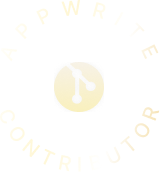
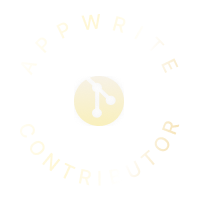
Add cache, fix miss-align

diff --git a/app/controllers/api/avatars.php b/app/controllers/api/avatars.php
@@ -474,8 +474,9 @@ App::get('/v1/avatars/initials')
     ->desc('Get Front Of Cloud Card')
     ->groups(['api', 'avatars'])
     ->label('scope', 'avatars.read')
-    // ->label('cache', true)
-    // ->label('cache.resource', 'cards/cloud')
+    ->label('cache', true)
+    ->label('cache.resourceType', 'cards/cloud')
+    ->label('cache.resource', 'card/{request.userId}')
     ->label('docs', false)
     ->label('origin', '*')
     ->param('userId', '', new UID(), 'User ID.', true)
@@ -491,12 +492,10 @@ App::get('/v1/avatars/initials')
     ->inject('contributors')
     ->inject('employees')
     ->action(function (string $userId, string $mock, int $width, int $height, Document $user, Document $project, Database $dbForProject, Database $dbForConsole, Response $response, array $heroes, array $contributors, array $employees) use ($getUserGitHub) {
-        if (!empty($userId)) {
-            $user = Authorization::skip(fn () => $dbForConsole->getDocument('users', $userId));
-        }
+        $user = Authorization::skip(fn () => $dbForConsole->getDocument('users', $userId));
 
         if ($user->isEmpty() && empty($mock)) {
-            throw new Exception(Exception::GENERAL_ACCESS_FORBIDDEN);
+            throw new Exception(Exception::USER_NOT_FOUND);
         }
 
         if(!$mock) {
@@ -542,7 +541,7 @@ App::get('/v1/avatars/initials')
         if($isEmployee) {
             $image = new Imagick('public/images/cards/cloud/employee.png');
             $image->setGravity(Imagick::GRAVITY_CENTER);
-            $baseImage->compositeImage($image, Imagick::COMPOSITE_OVER, 820, 50);
+            $baseImage->compositeImage($image, Imagick::COMPOSITE_OVER, 795, 35);
 
             $text = new \ImagickDraw();
             $text->setTextAlignment(Imagick::ALIGN_CENTER);
@@ -579,13 +578,13 @@ App::get('/v1/avatars/initials')
         if($isContributor) {
             $image = new Imagick('public/images/cards/cloud/contributor.png');
             $image->setGravity(Imagick::GRAVITY_CENTER);
-            $baseImage->compositeImage($image, Imagick::COMPOSITE_OVER, 820, 50);
+            $baseImage->compositeImage($image, Imagick::COMPOSITE_OVER, 795, 35);
         }
 
         if($isHero) {
             $image = new Imagick('public/images/cards/cloud/hero.png');
             $image->setGravity(Imagick::GRAVITY_CENTER);
-            $baseImage->compositeImage($image, Imagick::COMPOSITE_OVER, 820, 50);
+            $baseImage->compositeImage($image, Imagick::COMPOSITE_OVER, 795, 35);
         }
 
         setlocale(LC_ALL, "en_US.utf8");
@@ -650,8 +649,9 @@ App::get('/v1/avatars/initials')
     ->desc('Get Back Of Cloud Card')
     ->groups(['api', 'avatars'])
     ->label('scope', 'avatars.read')
-    // ->label('cache', true)
-    // ->label('cache.resource', 'cards/cloud')
+    ->label('cache', true)
+    ->label('cache.resourceType', 'cards/cloud-back')
+    ->label('cache.resource', 'card/{request.userId}')
     ->label('docs', false)
     ->label('origin', '*')
     ->param('userId', '', new UID(), 'User ID.', true)
@@ -667,12 +667,10 @@ App::get('/v1/avatars/initials')
     ->inject('contributors')
     ->inject('employees')
     ->action(function (string $userId, string $mock, int $width, int $height, Document $user, Document $project, Database $dbForProject, Database $dbForConsole, Response $response, array $heroes, array $contributors, array $employees) use ($getUserGitHub) {
-        if (!empty($userId)) {
-            $user = Authorization::skip(fn () => $dbForConsole->getDocument('users', $userId));
-        }
+        $user = Authorization::skip(fn () => $dbForConsole->getDocument('users', $userId));
 
         if ($user->isEmpty() && empty($mock)) {
-            throw new Exception(Exception::GENERAL_ACCESS_FORBIDDEN);
+            throw new Exception(Exception::USER_NOT_FOUND);
         }
 
         if(!$mock) {
@@ -723,8 +721,6 @@ App::get('/v1/avatars/initials')
             ->setContentType('image/png')
             ->file($baseImage->getImageBlob());
     });
-
-// TODO: Uncomment cache flags
 
 // TODO: 3D:
 // $baseImage = new \Imagick("public/images/cards/cloud/front.png");
